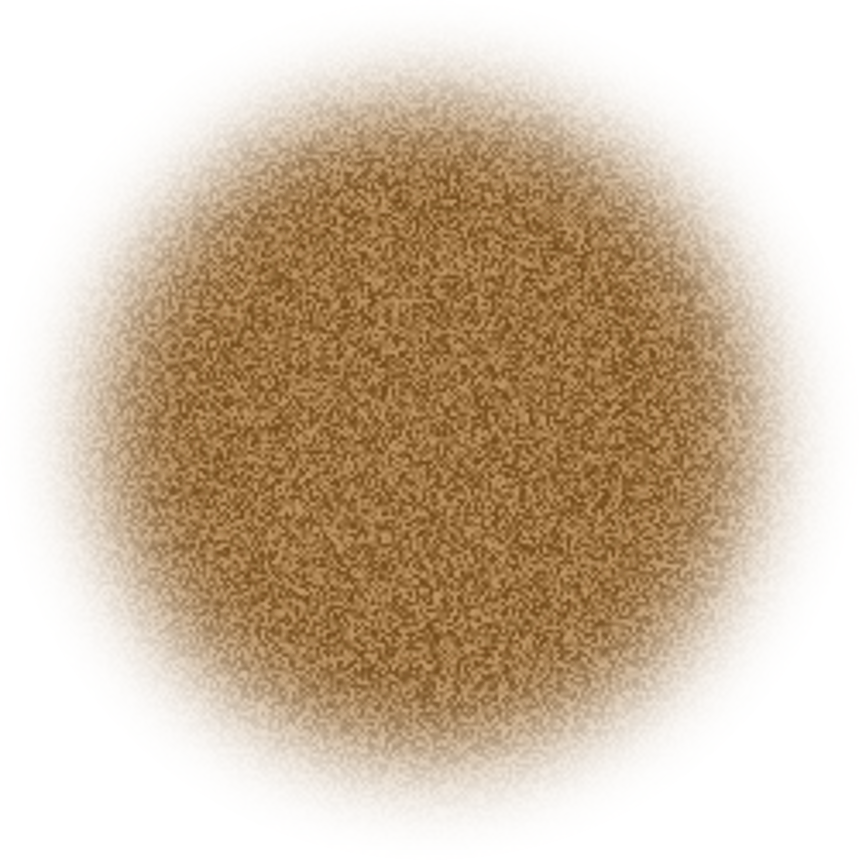
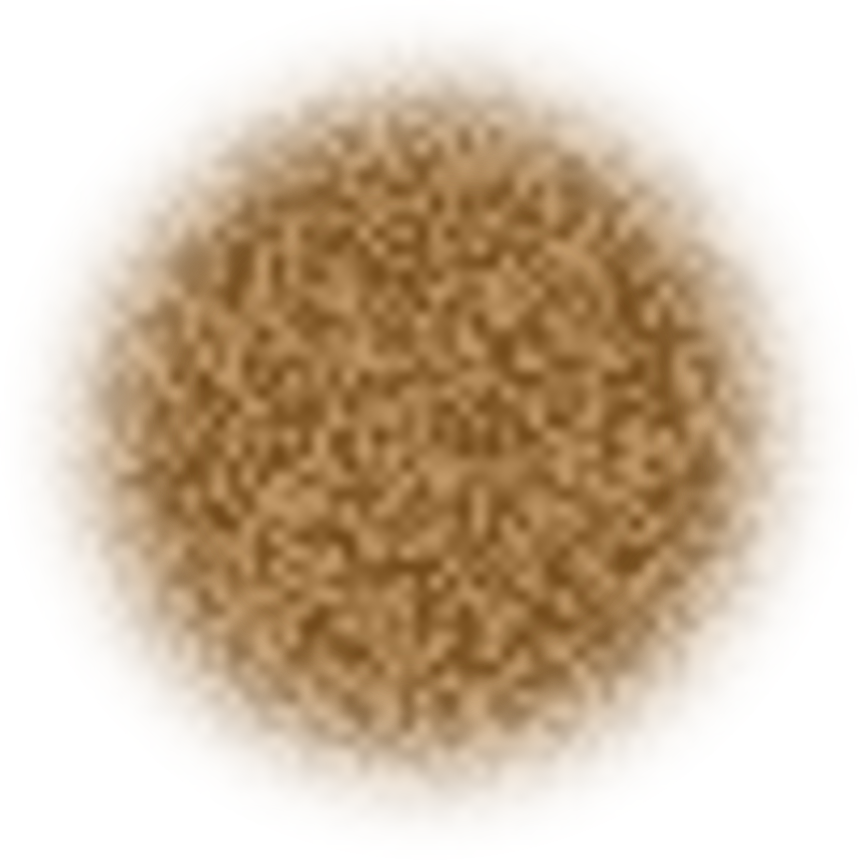
new testing version

Changed region(s): [[0.1211, 0.1209, 0.8778, 0.8767]]

diff --git a/index.html b/index.html
@@ -17,6 +17,7 @@
   <script src="https://unpkg.com/@jspsych/plugin-survey-text@2.1.0"></script>
   <script src="https://unpkg.com/@jspsych-contrib/plugin-pipe"></script>
   <script src="https://unpkg.com/@jspsych/plugin-survey-text@2.1.0"></script>
+  <script src="https://unpkg.com/@jspsych/plugin-browser-check@2.1.0"></script>
 
   <link href="https://unpkg.com/jspsych@8.2.2/css/jspsych.css" rel="stylesheet" type="text/css" />
   <link href="exp_4_style.css" rel="stylesheet" type="text/css" />
@@ -25,142 +26,6 @@
 <body oncontextmenu='return false;'></body>
 
 <script>
-
-// instellingen
-
-
-///////////////////////////////////////////////
-///
-///
-///  EXTRA STUFF 
-///
-///
-///////////////////////////////////////////////
-
-/////////////////
-
-  // function getContinueButton() {
-  //   return document.querySelector(
-  //     'button.jspsych-btn:not([disabled]), input.jspsych-btn[type="button"]:not([disabled]), input.jspsych-btn[type="submit"]:not([disabled]), input[type="submit"]:not([disabled])'
-  //   );
-  // }
-
-  // document.addEventListener('keydown', function(event) {
-  //   const active_element = document.activeElement;
-  //   const active_tag = active_element ? active_element.tagName : '';
-  //   const input_type = active_element && active_element.type ? active_element.type.toLowerCase() : '';
-  //   const blocks_space_continue =
-  //     active_tag === 'TEXTAREA' ||
-  //     active_tag === 'SELECT' ||
-  //     active_tag === 'BUTTON' ||
-  //     (active_tag === 'INPUT' && !['radio', 'checkbox'].includes(input_type));
-  //   const continue_button = getContinueButton();
-
-  //   if (event.code === 'Space' && continue_button && !blocks_space_continue) {
-  //     event.preventDefault();
-  //     continue_button.click();
-  //   }
-  // });
-
-  // function isSpaceHintTarget(element) {
-  //   return element.matches(
-  //     'button.jspsych-btn, input.jspsych-btn[type="button"], input.jspsych-btn[type="submit"], input[type="submit"]'
-  //   );
-  // }
-
-  // function ensureSpaceHints() {
-  //   const buttons = document.querySelectorAll(
-  //     'button.jspsych-btn, input.jspsych-btn[type="button"], input.jspsych-btn[type="submit"], input[type="submit"]'
-  //   );
-
-  //   buttons.forEach((button) => {
-  //     if (
-  //       button.parentElement &&
-  //       button.parentElement.classList.contains('jspsych-space-wrapper')
-  //     ) {
-  //       const existing_hint = button.parentElement.querySelector('.jspsych-space-hint');
-  //       if (!existing_hint) {
-  //         const hint = document.createElement('div');
-  //         hint.className = 'jspsych-space-hint';
-  //         hint.textContent = 'Klik hierboven of druk op <spatie>';
-  //         button.parentElement.appendChild(hint);
-  //       }
-  //       return;
-  //     }
-
-  //     const wrapper = document.createElement('div');
-  //     wrapper.className = 'jspsych-space-wrapper';
-  //     button.insertAdjacentElement('beforebegin', wrapper);
-  //     wrapper.appendChild(button);
-
-  //     const hint = document.createElement('div');
-  //     hint.className = 'jspsych-space-hint';
-  //     hint.textContent = 'Klik hierboven of druk op <spatie>';
-  //     wrapper.appendChild(hint);
-  //   });
-  // }
-
-  // function setupSpaceHintObserver() {
-  //   let update_scheduled = false;
-
-  //   const scheduleHintUpdate = () => {
-  //     if (update_scheduled) return;
-  //     update_scheduled = true;
-  //     window.requestAnimationFrame(() => {
-  //       update_scheduled = false;
-  //       ensureSpaceHints();
-  //     });
-  //   };
-
-  //   const observer = new MutationObserver((mutation_list) => {
-  //     const should_update = mutation_list.some((mutation) => {
-  //       return [...mutation.addedNodes].some((node) => {
-  //         if (!(node instanceof HTMLElement)) return false;
-  //         if (node.classList.contains('jspsych-space-hint')) return false;
-  //         if (node.classList.contains('jspsych-space-wrapper')) return false;
-  //         return isSpaceHintTarget(node) || !!node.querySelector?.(
-  //           'button.jspsych-btn, input.jspsych-btn[type="button"], input.jspsych-btn[type="submit"], input[type="submit"]'
-  //         );
-  //       });
-  //     });
-
-  //     if (should_update) {
-  //       scheduleHintUpdate();
-  //     }
-  //   });
-
-  //   observer.observe(document.body, {
-  //     childList: true,
-  //     subtree: true
-  //   });
-
-  //   scheduleHintUpdate();
-  // }
-
-  // if (document.readyState === 'loading') {
-  //   window.addEventListener('DOMContentLoaded', setupSpaceHintObserver);
-  // } else {
-  //   setupSpaceHintObserver();
-  // }
-
-
-///////////////////////////////////////////////
-///  Add halfway save functionality
-
-// press Crtl + Shift + s to save current data and reload
-
-function save_incomplete_data(e){
-  let k = e.key.toLowerCase()
-  if (k == 'q' && e.ctrlKey) {
-    let _filename = 'MANUAL_SAVE_' + Date.now() + '_' + filename
-
-    jsPsych.data.get().localSave('csv',  _filename);    
-    jsPsychPipe.saveData("HEqS006hoIeG", _filename, jsPsych.data.get().csv())
-
-  }
-}
-document.addEventListener("keydown", save_incomplete_data)
-
 
 
 ///////////////////////////////////////////////
@@ -173,7 +38,12 @@ document.addEventListener("keydown", save_incomplete_data)
 
 
   const jsPsych = initJsPsych({
-
+        // show_progress_bar: true,
+        message_progress_bar: '',
+        on_finish: function() {
+          // jsPsych.data.displayData('json');
+          // window.location.href = 'https://lerenkijken.nl/';
+        }
   });
 
 
@@ -194,7 +64,6 @@ document.addEventListener("keydown", save_incomplete_data)
   const hidden_stimulus_congruency = jsPsych.randomization.sampleWithoutReplacement(['congruent', 'incongruent', 'absent'], 1)[0];
 
 
-
   let dynamic_noise_duration = 3000;
   let single_frame_duration = 100;
   let inter_trial_interval = 800;
@@ -210,9 +79,11 @@ document.addEventListener("keydown", save_incomplete_data)
   let gabor_opacity;
   let opacity_boost = 0.4
 
-  const break_every_n_trials = 10
+  const break_every_n_trials = 5
 
   const n_practice_trials = 3
+
+  // make 20 trials per cong/incong/absent condition, resulting in total of 60 detection trials 
   const trials_per_condition = 20
   
   const practice_gabors = jsPsych.randomization.shuffle(['right', 'left', 'absent'])
@@ -224,7 +95,6 @@ document.addEventListener("keydown", save_incomplete_data)
   ]
 
   const total_main_trials = practice_and_main_gabors.length
-
 
   let delta_times;
 
@@ -240,7 +110,10 @@ document.addEventListener("keydown", save_incomplete_data)
   });
   
   // add url variables
-  let exp_version = 'version - 0.5.2 - (11-05-2026 12:00)'
+  let exp_version = '0_6_0'
+  const exp_id = 'exp_4_v'+exp_version
+  console.log("Exp ID: "+exp_id)
+    
   
   const url_vars = jsPsych.data.urlVariables()
   
@@ -250,7 +123,11 @@ document.addEventListener("keydown", save_incomplete_data)
   url_vars['exp_start_datetime'] = Date(exp_start_datetime)
   url_vars['exp_start_UTCms'] = exp_start_datetime
 
-  jsPsych.data.addProperties( url_vars )
+  const user_info_trial = {
+    type: jsPsychBrowserCheck,
+    data: url_vars,
+  };
+
 
 
   const canvas_size = [400, 400];
@@ -835,10 +712,11 @@ document.addEventListener("keydown", save_incomplete_data)
 //DEEL 2
 
 
-  function key_to_response(key_press) {
-    if (key_press === 'ArrowLeft') return 'left';
-    if (key_press === 'ArrowRight') return 'right';
-    if (key_press === 'ArrowUp' || key_press === 'ArrowDown') return 'absent';
+  function key_to_response(resp_choice) {
+    if (resp_choice === 0) return 'left';
+    if (resp_choice === 1 ) return 'absent';
+    if (resp_choice === 2) return 'right';
+    
     return 'no_response';
   }
 
@@ -1467,7 +1345,7 @@ document.addEventListener("keydown", save_incomplete_data)
 
 
 //TIMELINE 
-  const timeline = [preload, start_main, timed_main_task,
+  const timeline = [user_info_trial, preload, start_main, timed_main_task,
   // password_check, 
   welcome_screen, zebra_intro, sandstorm_intro, stripes_intro];
 

diff --git a/exp_4_style.css b/exp_4_style.css
@@ -36,14 +36,19 @@ html, body {
     align-items: center;
     gap: 0.2em;
     font-size: 30px;
-    border: 10px solid transparent;
+    border: 10px solid #ce7b00;
     border-radius: 16px;
     color: white;
-    background-color: #2b00c8d0;
+    background-color: #ce7b00;
     padding: 0.2em 1.2em;
+    text-shadow: 0.2em 0.2em 0.2em #222222;
     /*font-family: Malington;*/
 }
-
+.jspsych-btn:hover {
+  background-color: #ce7b00;
+  border-color: #ce7b00;
+  color: white;
+}
 .jspsych-space-hint {
   display: block;
   margin-top: 6px;
@@ -63,11 +68,7 @@ html, body {
   align-items: center;
 }
 
-.jspsych-btn:hover {
-  background-color: #2b00c8; 
-  border-color: #2b00c8;
-  color: white;
-}
+
 .jspsych-btn:disabled {
   background-color: #2b00c800;
   color: #aaaaaa00;
